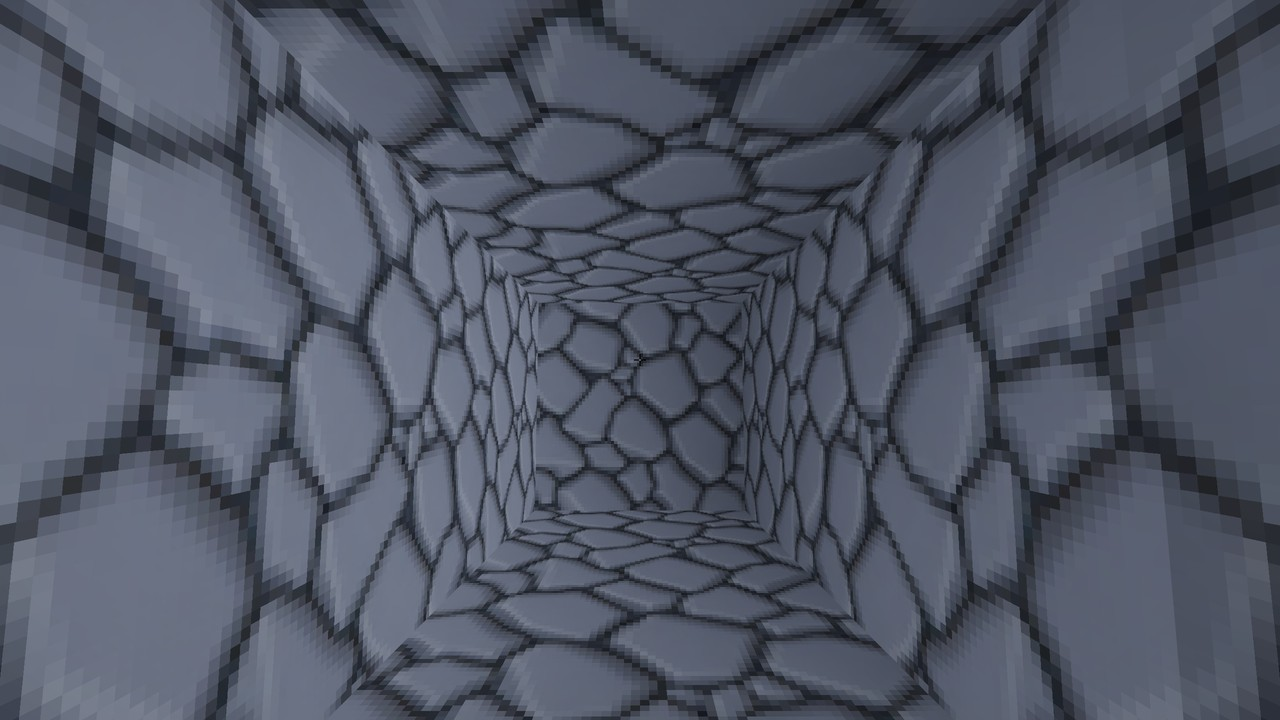
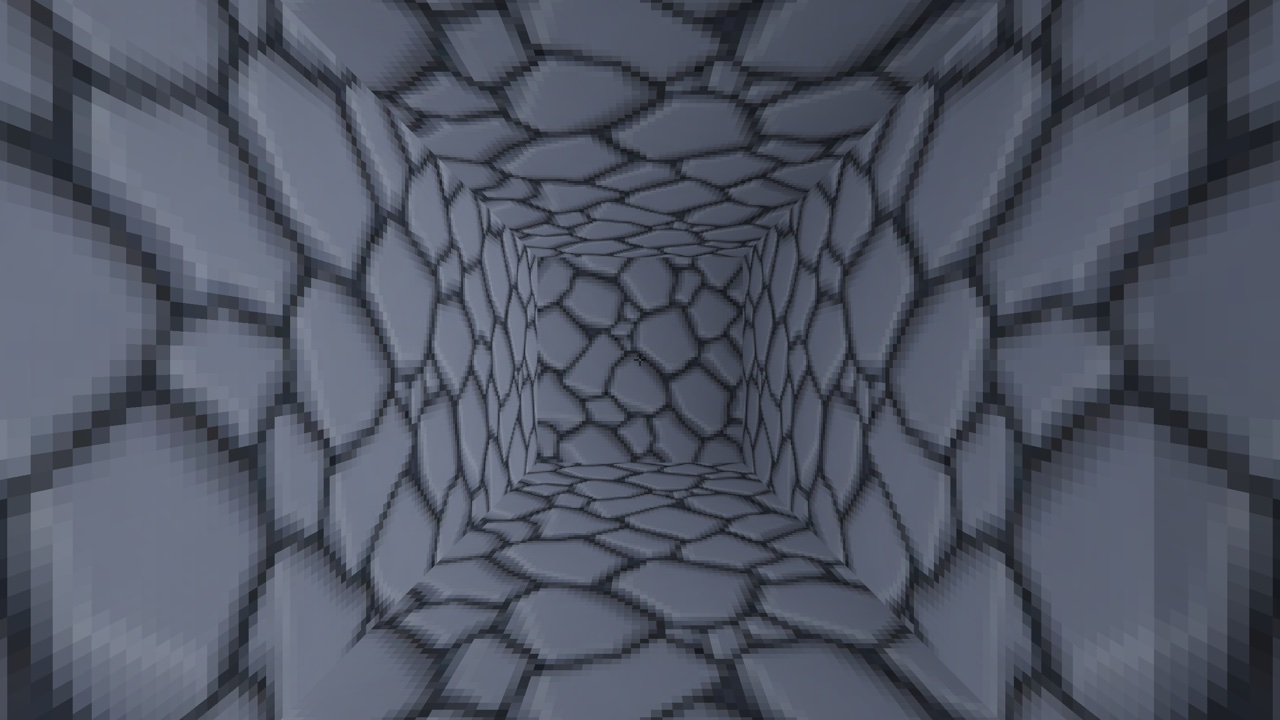
docs: refresh hero screenshots to current render
Recapture vista, ground, and cave with the deeper daytime sky palette
and the dual-filter bloom (the committed shots predated both). The cave
shot uses the occlusion bench pocket looking down the tunnel (7 drawn
vs 436 frustum-only); fix the caption from the stale 439 to the
measured 436.

diff --git a/README.md b/README.md
@@ -10,7 +10,7 @@ out of it. Numbers below are from my Apple M4.
 
 | ![Ground level](docs/media/ground.jpg) | ![Inside a cave](docs/media/cave.jpg) |
 | :---: | :---: |
-| Ground level: CSM shadows, vertex AO, 64px mipmapped texture array | Inside a cave tunnel: occlusion culling draws **7 sections instead of 439**, byte-identical to the unculled render |
+| Ground level: CSM shadows, vertex AO, 64px mipmapped texture array | Inside a cave tunnel: occlusion culling draws **7 sections instead of 436**, byte-identical to the unculled render |
 
 Screenshots are reproducible: `./build/voxel_engine --screenshot-after 60
 --pose center` renders a deterministic pose (locked camera, frozen shader
